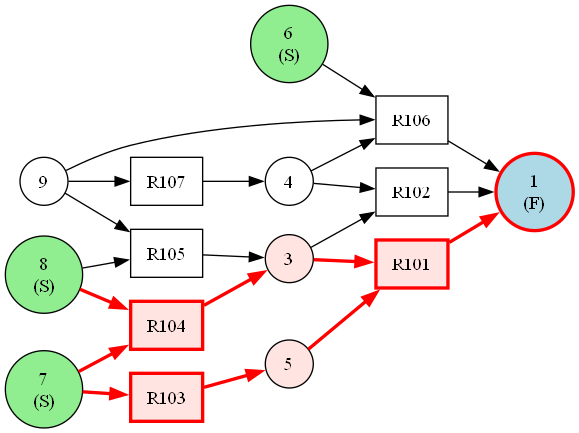
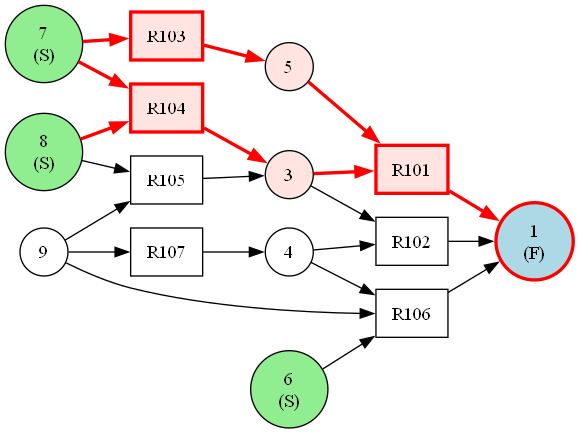
lab 3 done

diff --git a/lab2/SearchInDepthFromGoal.cs b/lab2/SearchInDepthFromGoal.cs
@@ -70,21 +70,30 @@ public class SearchInDepthFromGoal
         while (!_hasAnswer && !_hasNoAnswer) // пока нет информации о том, если ли решение или нет...
         {
             _step++; // для лога шагов
-
-            // если на вершине стека правило, которому нужно выбрать следующую подцель...
-            if (_openRules.Count == _openConditions.Count)
-            {
-                Labeling(); // ...то размечаем его входные вершины
-                LogStacks();
-                continue;
-            }
-
-            // иначе на вершине стека подцель, для которой нужно найти правило
             var g = Descendants(); // находим потомка
 
-            // если нет правил, которыми можно доказать подцель,...
-            if (g == 0)
-                Backtracking(); // ...то откатываемся назад
+            // пока нет правил, которыми можно доказать подцель (и это не сама цель),...
+            // откат может каскадом подниматься на несколько уровней
+            while (g == 0 && !IsOnlyGoalLeft())
+            {
+                Backtracking(); // ...откатываемся назад...
+                LogStacks();
+
+                _step++;
+                g = Descendants(); // ...и ищем альтернативный путь для предыдущей вершины
+            }
+
+            // если потомков нет, а в стеке открытых вершин осталась только цель - решения нет
+            if (g == 0 && IsOnlyGoalLeft())
+            {
+                if (_endCondition.Mark != ConditionMark.Denied)
+                {
+                    _endCondition.Mark = ConditionMark.Denied; // цель тоже запрещена
+                    _deniedConditions.Add(_endCondition);
+                }
+                Log($"В стеке подцелей осталась только цель {_endCondition.Num}, потомков нет => РЕШЕНИЯ НЕТ");
+                _hasNoAnswer = true; // помечаем флаг, что РЕШЕНИЯ НЕТ
+            }
 
             LogStacks();
         }
@@ -92,46 +101,46 @@ public class SearchInDepthFromGoal
 
     private int Descendants()
     {
-        var subGoal = _openConditions.Peek(); // текущая подцель - вершина стека открытых вершин
+        var subGoal = _openConditions.Peek(); // текущая подцель - голова стека открытых вершин
         LogStep($"Descendants: Ищем правило для подцели {subGoal.Num}");
 
+        // запрещенную подцель раскрыть нельзя (ее уже не удалось доказать в другой ветке)
+        if (subGoal.Mark == ConditionMark.Denied)
+        {
+            Log($"Подцель {subGoal.Num} уже запрещена");
+            return 0;
+        }
+        
         foreach (var rule in _rules) // проходимся по всем правилам
         {
             if (rule.Out != subGoal) // если правило выводит не подцель - пропуск
                 continue;
 
-            if (rule.Mark != RuleMark.None) // если правило уже доказано или запрещено - пропуск
-            {
-                Log($"{RuleToString(rule)} - пропуск, правило уже {(rule.Mark == RuleMark.Denied ? "запрещено" : "доказано")}");
-                continue;
-            }
-
-            if (_openRules.Contains(rule)) // если правило уже открыто - пропуск
-            {
-                Log($"{RuleToString(rule)} - пропуск, правило уже в стеке открытых правил");
-                continue;
-            }
-
-            bool isRuleAvailable = true; // предполагаем, что правило можно использовать
-            foreach (var ruleCondition in rule.In) // для проверки пройдемся по всем входным вершинам
-            {
-                // если вершина запрещена, то правило доказать невозможно
-                // если вершина уже есть в стеке подцелей, то правило приведет к циклу
-                if (ruleCondition.Mark == ConditionMark.Denied || _openConditions.Contains(ruleCondition))
-                {
-                    Log($"{RuleToString(rule)} - пропуск, вход {ruleCondition.Num} " +
-                        (ruleCondition.Mark == ConditionMark.Denied ? "запрещен" : "уже в стеке подцелей (цикл)"));
-                    isRuleAvailable = false; // в обоих случаях правило не подходит, пропускаем его
-                    break;
-                }
-            }
-
-            if (!isRuleAvailable) // если правило не подходит - пропуск
+            if (rule.Mark != RuleMark.None) // если метка правила не 0 (открыто, доказано или запрещено) - пропуск
                 continue;
 
-            _openRules.Push(rule); // иначе мы нашли потомка, кладем правило на вершину стека открытых правил
-            Log($"{RuleToString(rule)} - выбрано, кладем в стек открытых правил");
-            return 1; // в глубину идем только по одному потомку
+            _openRules.Push(rule); // мы нашли потомка, кладем правило в голову стека открытых правил
+            rule.Mark = RuleMark.Opened; // метку выбранного правила устанавливаем в 1
+            Log($"{RuleToString(rule)} выбрано, кладем в стек открытых правил");
+
+            // новые подцели - входы правила, которые не входят в список закрытых вершин;
+            // кладем их по порядку, поэтому первым раскрывается последний вход
+            var newSubGoals = rule.In.Where(c => c.Mark != ConditionMark.Closed).ToList();
+            foreach (var newSubGoal in newSubGoals)
+                _openConditions.Push(newSubGoal);
+
+            foreach (var ruleCondition in rule.In.Where(c => c.Mark == ConditionMark.Closed))
+                Log($"Вход {ruleCondition.Num} закрыт " +
+                    (_conditionToRule.TryGetValue(ruleCondition, out var proofRule)
+                        ? $"(доказан правилом R{proofRule.Num})"
+                        : "(начальный факт)"));
+
+            if (newSubGoals.Count > 0)
+                Log($"Новые подцели: {string.Join(", ", newSubGoals.Select(c => c.Num))} - уходим в глубину");
+            else
+                Labeling(); // все входы закрыты - новых подцелей нет, правило доказано
+
+            return 1;
         }
 
         // потомков нет
@@ -141,57 +150,43 @@ public class SearchInDepthFromGoal
 
     private void Labeling()
     {
-        var rule = _openRules.Peek(); // текущее правило - вершина стека открытых правил
-        LogStep($"Labeling: Проверяем входы правила {RuleToString(rule)}");
+        var isModuleProved = true; // f_m: правило (модуль) из головы стека доказано
 
-        foreach (var ruleCondition in rule.In) // пройдемся по всем входным вершинам правила
+        while (!_hasAnswer && isModuleProved)
         {
-            if (ruleCondition.Mark == ConditionMark.Closed) // если она закрыта, то все хорошо, продолжаем проверку
-            {
-                Log($"Вход {ruleCondition.Num} закрыт " +
-                    (_conditionToRule.TryGetValue(ruleCondition, out var proofRule)
-                        ? $"(доказан правилом R{proofRule.Num})"
-                        : "(начальный факт)"));
-                continue;
-            }
+            var rule = _openRules.Pop(); // доказанное правило убираем из стека открытых правил...
+            rule.Mark = RuleMark.Confirmed; // ...помечаем как доказанное...
+            _confirmedRules.Add(rule); // ...и переносим в список закрытых правил
 
-            // если вход запрещен (его не удалось доказать в другой ветке), то и правило доказать невозможно
-            if (ruleCondition.Mark == ConditionMark.Denied)
+            _openConditions.Pop(); // подцель доказана, убираем ее из стека открытых вершин
+            rule.Out.Mark = ConditionMark.Closed; // закрываем ее
+            _closedConditions.Add(rule.Out); // добавляем в список закрытых вершин
+            _conditionToRule[rule.Out] = rule; // запоминаем, каким правилом доказано условие
+
+            Log($"Labeling: правило R{rule.Num} доказано, вершина {rule.Out.Num} закрыта");
+
+            if (rule.Out == _endCondition) // если вершина вывода искомая...
             {
-                _openRules.Pop(); // убираем правило из стека открытых правил
-                rule.Mark = RuleMark.Denied; // помечаем правило как запрещенное
-                _deniedRules.Add(rule); // записываем его в соответствующий список
-                Log($"Вход {ruleCondition.Num} запрещен - ОТКАТ: правило R{rule.Num} запрещено");
-                Log($"Возвращаемся к подцели {_openConditions.Peek().Num}, для нее будет искаться другое правило");
+                Log($"Доказана цель {_endCondition.Num} - РЕШЕНИЕ НАЙДЕНО");
+                _hasAnswer = true; // .. то есть решение
                 return;
             }
 
-            // если она не закрыта, то это новая подцель, кладем ее на вершину стека открытых вершин...
-            _openConditions.Push(ruleCondition);
-            Log($"Вход {ruleCondition.Num} не доказан - новая подцель, уходим в глубину");
-            return; // ...и уходим в глубину
-        }
+            // подцели, которые оказались доказаны в другой ветке, тоже убираем из стека
+            while (_openConditions.Peek().Mark == ConditionMark.Closed)
+            {
+                var closed = _openConditions.Pop();
+                Log($"Подцель {closed.Num} уже доказана правилом R{_conditionToRule[closed].Num}, убираем из стека");
+            }
 
-        // все входные вершины закрыты, значит правило доказано
-        _openRules.Pop(); // убираем правило из стека открытых правил
-        rule.Mark = RuleMark.Confirmed; // пометим правило как подтвержденное
-        _confirmedRules.Add(rule); // запишем его в соответствующий список
+            // в правиле из головы стека проверяем, все ли входные вершины доказаны
+            var parentRule = _openRules.Peek();
+            isModuleProved = parentRule.In.All(c => c.Mark == ConditionMark.Closed);
 
-        _openConditions.Pop(); // подцель доказана, убираем ее из стека открытых вершин
-        rule.Out.Mark = ConditionMark.Closed; // закрываем ее
-        _closedConditions.Add(rule.Out); // добавляем в соответствующий список
-        _conditionToRule[rule.Out] = rule; // запоминаем, каким правилом доказано условие
-
-        Log($"Все входы закрыты - правило R{rule.Num} доказано, вершина {rule.Out.Num} закрыта");
-
-        if (rule.Out == _endCondition) // если вершина вывода искомая...
-        {
-            Log($"Доказана цель {_endCondition.Num} - РЕШЕНИЕ НАЙДЕНО");
-            _hasAnswer = true; // .. то есть решение
-        }
-        else
-        {
-            Log($"Поднимаемся к правилу R{_openRules.Peek().Num}");
+            if (isModuleProved)
+                Log($"Все входы правила R{parentRule.Num} закрыты - поднимаемся выше");
+            else
+                Log($"У правила R{parentRule.Num} остались недоказанные входы, следующая подцель {_openConditions.Peek().Num}");
         }
     }
 
@@ -200,28 +195,37 @@ public class SearchInDepthFromGoal
         // подцель доказать невозможно, убираем ее из стека открытых вершин
         var subGoal = _openConditions.Pop();
 
-        subGoal.Mark = ConditionMark.Denied; // помечаем вершину как запрещенную
-        _deniedConditions.Add(subGoal); // добавляем в соответствующий список
-        Log($"Backtracking: вершина {subGoal.Num} запрещена");
-
-        // если стек открытых вершин опустел, то не доказана сама цель...
-        if (_openConditions.Count == 0)
+        if (subGoal.Mark != ConditionMark.Denied)
         {
-            // ...то нет решений, запоминаем этот вариант
-            Log($"Стек подцелей пуст, цель {_endCondition.Num} доказать невозможно - РЕШЕНИЯ НЕТ");
-            _hasNoAnswer = true; // помечаем флаг, что РЕШЕНИЯ НЕТ
-            return;
+            subGoal.Mark = ConditionMark.Denied; // помечаем вершину как запрещенную
+            _deniedConditions.Add(subGoal); // добавляем в соответствующий список
         }
+        Log($"Backtracking: вершина {subGoal.Num} запрещена");
 
         // правило, которое породило эту подцель, тоже доказать невозможно
         var rule = _openRules.Pop(); // убираем его из стека открытых правил
 
         rule.Mark = RuleMark.Denied; // помечаем правило как запрещенное
         _deniedRules.Add(rule); // записываем его в соответствующий список
-        Log($"ОТКАТ: правило R{rule.Num}, породившее подцель {subGoal.Num}, запрещено");
+        Log($"Backtracking: правило R{rule.Num}, породившее подцель {subGoal.Num}, запрещено");
 
-        // на вершине стека снова оказывается подцель-родитель, для нее будет искаться другое правило
-        Log($"Возвращаемся к подцели {_openConditions.Peek().Num}, для нее будет искаться другое правило");
+        // убираем из стека остальные подцели, которые положило запрещенное правило: они лежат подряд
+        // на вершине стека; ниже могут лежать такие же вершины, но они принадлежат родительскому правилу
+        var removed = new List<Condition>();
+        while (_openConditions.Count > 0
+               && rule.In.Contains(_openConditions.Peek())
+               && _openConditions.Peek() != subGoal
+               && !removed.Contains(_openConditions.Peek()))
+            removed.Add(_openConditions.Pop());
+
+        if (removed.Count > 0)
+            Log($"Убираем из стека остальные входы правила R{rule.Num}: {string.Join(", ", removed.Select(c => c.Num))}");
+    }
+
+    // в стеке открытых вершин осталась только целевая вершина
+    private bool IsOnlyGoalLeft()
+    {
+        return _openConditions.Count == 1 && _openConditions.Peek() == _endCondition;
     }
 
     // ---------- ВСПОМОГАТЕЛЬНЫЕ МЕТОДЫ ДЛЯ ВЫВОДА ----------

diff --git a/lab2/Program.cs b/lab2/Program.cs
@@ -8,7 +8,7 @@ var graphPaths = args.Length > 0
         // @"C:\Work\Repos\ExpertSystems\lab2\Examples\graph.txt",
         // @"C:\Work\Repos\ExpertSystems\lab2\Examples\graphComplex.txt",
         // @"C:\Work\Repos\ExpertSystems\lab2\Examples\graphNoAnswer.txt",
-        //@"C:\Work\Repos\ExpertSystems\lab2\Examples\graphWide.txt"
+        // @"C:\Work\Repos\ExpertSystems\lab2\Examples\graphWide.txt",
         @"C:\Work\Repos\ExpertSystems\lab2\Examples\graphTest.txt"
     };
 

diff --git a/lab2/Graph/Rule.cs b/lab2/Graph/Rule.cs
@@ -4,7 +4,8 @@ public enum RuleMark
 {
     Denied = -1,
     None = 0,
-    Confirmed = 1,
+    Opened = 1,
+    Confirmed = 2,
 }
 
 public class Rule
